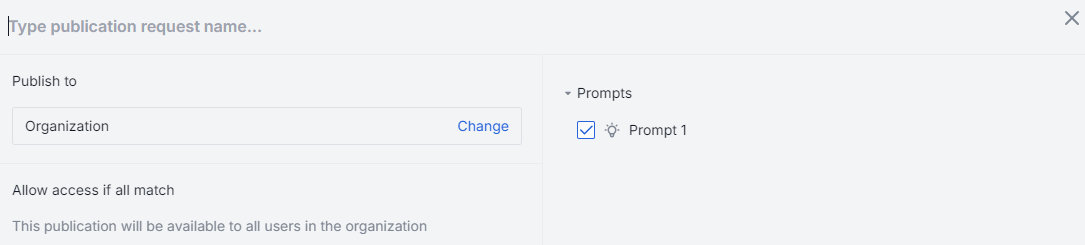
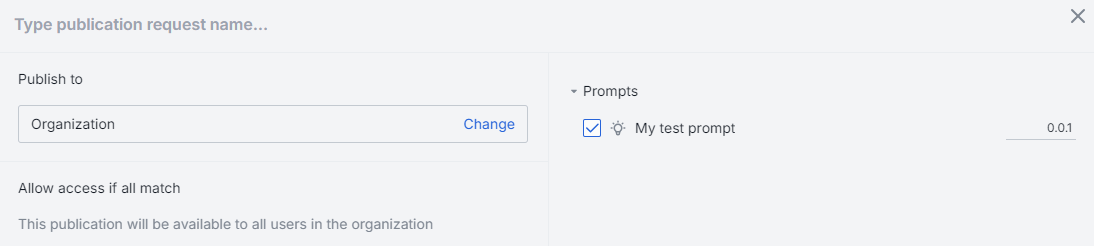
guide updates

diff --git a/docs/user-guide.md b/docs/user-guide.md
@@ -80,7 +80,7 @@ The MAX length of the folder name is limited to 160 symbols. Everything beyond i
 
 ### Search and Filter
 
-The **Search** box can be utilized to find conversations and folders by their names. If you have any share d conversations, you can apply **Shared by me** filter to sort them out.
+The **Search** box can be utilized to find conversations and folders by their names. If you have any shared conversations, you can apply **Shared by me** filter to sort them out.
 
 ![](./img/search-conv.png)
 
@@ -322,13 +322,31 @@ You can publish conversations to make them available for the target audience.
    * In **Publish to**, you can select the target destination. You can also create a dedicated folder to publish your conversation into.
    * In **Allow access..**, specify access rules and the target audience. For example Role-Equals-Admin. **Note**: the available roles are configured for each organization individually. Contact your support to find out the rules are applicable in your organization.
    * In **Conversations**, you can choose what conversations you want to publish (if you have selected a folder with several conversations). If conversations include attachments, you can also select them in the **Files** section.
-      - You can also add a **version** of your publication next to the conversation check box.
+   * Assign a version to your request. 
    * Click **Send request** to send your publish request to the administrator.
    ![](./img/publish-request.png)
 
 3. When your request is approved, the published conversation or a folder with conversation(s) will become available in the Organization tab.
 
 ![](./img/organization-section.png)
+
+**Versioning**
+
+When you make a publication request, it is required to assign it a unique version number. A version must follow format: `0.0.0`. With each request you must provide a new version - the system will not accept two identical versions. 
+
+Versioning helps you create specific publications for different groups of people, run experiments, and keep track of your conversations easily.
+
+You can add a **version** of your publication request next to the conversation check box:
+
+![](./img/versioning1.png)
+
+If you try to publish this conversation again, you will be able to view the last version or a drop-down with versions:
+
+![](./img/versioning2.png)
+
+When you open a published conversation, you can view and switch between its versions in the [conversation settings](#conversation-settings): 
+
+![](./img/versioning3.png)
 
 ### Unpublish
 
@@ -384,37 +402,49 @@ This is the list of all the supported actions. Note, that actions may vary for t
 
 ![](./img/prompt_actions.png)
 
+### Arrange
+
+You can arrange your prompts in folders. To create a new folder, click a folder icon in the bottom menu:
+
+![](./img/create-new-folder-prompt.png)
+
+You can also create a new folder or move a prompt to the existing folder from the **Move to** context menu of the selected prompt: 
+
+![](./img/move_prompt.png)
+
+New folders will automatically be arranged in the **Pinned prompts** tab in the Prompts panel.
+
+![](./img/pinned-prompts.png)
+
+**Hierarchy**
+
+You can create a hierarchy of folders with three nesting levels. Just create a folder and drag-n-drop it in the other folder to create a nesting level. The same way, you can either drag-n-drop a prompt into a folder or use **Move to** in the context menu of a prompt to move it to a **parent** folder.
+
+> **Note**: empty folders are deleted after refreshing the page.
+
+**Naming Conventions**
+
+The following symbols in the folders names are prohibited: tab, `"`, `:`, `;`, `/`, `\`, `,`, `=`, `{`, `}`, `%`, `&` and will be excluded. Note that you can use the `.` symbol at the start or inside a name, but the dot at the end will be automatically removed.
+
+The MAX length of the folder name is limited to 160 symbols. Everything beyond is cut off. 
+
 ### Search and Filter
+
+The **Search** box can be utilized to find prompts and folders by their names. If you have any shared prompts, you can apply **Shared by me** filter to sort them out.
 
 ![](./img/pt_search.png)
 
-The **Search** box can be utilized to find prompts and folders by their names.
-
-You can filter prompts by the "Shared by me" criterion. To do so, click the **Filter** icon and select **Shared by me**.
- 
-### Arrange
-
-You can gather your prompts in folders.
-
-![](./img/move_prompt.png)
- 
-You can create a hierarchy of folders with three nesting levels. Just create a folder and drag-n-drop it in the other folder to create a nesting level. 
-The same way, you can either drag-n-drop a prompt into a folder or use **Move to** in the context menu of a prompt to place it in the **parent** folder.  
-
-> After refreshing the page or logging in again, any empty folders will be deleted.
-
-The following symbols in the folders names are prohibited: tab, `"`, `:`, `;`, `/`, `\`, `,`, `=`, `{`, `}`, `%`, `&`. Note that you can use the `.` symbol at the start or inside a name, but the dot at the end will be automatically removed. The MAX length of the folder name is limited to 160 symbols. Everything beyond is cut off. 
 
 ### Create
 
 ![](./img/create-pt.png)
 
-To create a new prompt:
+**To create a new prompt**:
 
 1.	On the right panel, select **New prompt**.
 2.	Fill in the **Name**, **Description**, and **Prompt** boxes. The following symbols in the prompt names are prohibited: tab, ":", ";", "/", "\", ",", "=", "{", "}", "%", "&". Note that you can use the "." symbol at the start or inside a name, but the dot at the end will be automatically removed. The MAX length of the prompt name is limited to 160 symbols. Everything beyond is cut off.
 
-  > Please note that both the **Name** and **Description** fields are mandatory to fill in order to create a prompt!
+      > Please note that both the **Name** and **Description** fields are mandatory to fill in order to create a prompt!
 
 3.	Click **Save**.
 
@@ -456,6 +486,8 @@ You can delete a single prompt, selected prompts or all prompts.
 
 * To delete a single prompt, in the menu of each prompt, select **Delete** and confirm your action.
 * To delete all prompts, at the bottom of the right panel, click the **Delete all prompts** icon.
+
+![](./img/delete-prompt.png)
 
 ### Select to Delete
 
@@ -501,13 +533,13 @@ To share a prompt or a folder, click **Share** in the contextual menu and copy t
 
 ### Unshare
 
-To revoke access from all users, click **Unshare** in the contextual menu and then confirm actions in the dialog window.
+To revoke access from all users you have shared with, click **Unshare** in the contextual menu and then confirm actions in the dialog window.
 
 ![](./img/pt_unshare.png)
 
 ### Duplicate
 
-You can duplicate a prompt, for example, to be able to change a prompt that was shared with you. To duplicate a prompt, click **Duplicate** in the contextual menu.
+You can duplicate a prompt to be able to change a prompt that was shared with you. To duplicate a prompt, click **Duplicate** in the contextual menu.
 
 > You can duplicate only prompt shared with you.
 
@@ -515,9 +547,19 @@ You can duplicate a prompt, for example, to be able to change a prompt that was 
 
 ### Export Import
 
-You can export and import prompts. 
+You can export 
 
-> Note, that when importing a duplicate of an existing prompt, you will be prompted to select one of the proceeding options: replace, ignore or add a prefix to the imported prompt.
+![](./img/export-prompt.png)
+
+and import prompts as Json files
+
+![](./img/import-prompt.png)
+
+When importing a **duplicate** of an existing prompt, you will be asked to select one of the proceeding options: 
+
+* Replace - replace the original prompt 
+* Ignore - do nothing
+* Postfix - add a postfix to the imported prompt. For example: *my-prompt 1* , where 1 is added postfix to the name of the duplicated imported prompt.
 
 ![](./img/import-export-prompt.png)
 
@@ -525,7 +567,7 @@ You can export and import prompts.
 
 You can publish prompts to make them available for the target audience. 
 
-**Note**: to publish a shared prompt, [duplicate](#duplicate-1) it and then publish. 
+> **Note**: to publish a shared prompt, [duplicate](#duplicate-1) it and then publish. 
 
 **To publish a prompt**: 
 
@@ -538,6 +580,7 @@ You can publish prompts to make them available for the target audience.
    * In **Publish to**, select the target destination or a folder to publish your prompt into.
    * In **Allow access...**, specify access rules and the target audience. For example Role-Equals-Admin. **Note**: the available roles are defined in each organization individually. Contact your support to find out the rules are applicable in your organization.
    * In **Prompts**, if you have selected a folder, you can choose what prompts you want to publish.
+   * Assign a **version** to your publication request.
    * Click **Send request** to send your publication request to the administrator.
 
 ![](./img/publish-prompt-request.png)
@@ -545,6 +588,21 @@ You can publish prompts to make them available for the target audience.
 3. When your request is approved, the published prompt or a folder with prompt(s) will become available in the Organization tab.
 
 ![](./img/organization-section-prompts.png)
+
+**Versioning**
+
+When you make a publication request, it is required to assign it a unique version number. A version must follow format: `0.0.0`. With each request you must provide a new version - the system will not accept two identical versions. 
+
+Versioning helps you create specific publications for different groups of people, run experiments, and keep track of your prompts easily.
+
+You can add a **version** of your publication request next to the prompt check box:
+
+![](./img/prompt-versioning1.png)
+
+If you try to publish this prompt again, you will be able to view the last version or a drop-down with versions:
+
+![](./img/versioning2.png)
+
 
 ### Unpublish
 
@@ -780,6 +838,14 @@ All attached and uploaded files are available in the attachments manager. To man
 
 ![](./img/attachments3.png)
 
+There can be a few tabs in the Attachments Manager: 
+
+* Organization - published files
+* Shared with me - files shared with you
+* All files - the rest of your files
+
+![](./img/att-manager.png)
+
 **To Create a Folder:**
 
 You can create folders and then upload files into them. **Note**, the only way to add a file into a folder is to upload it - you cannot move files between folders.
@@ -822,10 +888,12 @@ In the file menu, you can choose to unshare it:
 
 **To Download Attachments**:
 
-> Click a folder to expand it.
+Click a folder to expand it.
 
 1. In the Manage attachments dialog, point to a file and select it. You can select several files.
 2. Click the **Download** icon below the files tree.
+
+![](./img/file-download.png)
 
 **To Delete Attachments**:
 
@@ -833,6 +901,8 @@ In the file menu, you can choose to unshare it:
 
 1. In the Manage attachments dialog, point to a file and select it. You can select several files.
 2. Click the **Delete** icon below the files tree.
+
+![](./img/file-delete.png)
 
 ## Publications
 
@@ -854,7 +924,7 @@ This is the high level overview of the publication workflow:
 
 1. Chat user sends a publication request for the selected resource(s) (conversation, prompt).
 2. Admin receives the publication request, reviews it and either approves or declines.
-3. In case the publication request has been approved, the published resource becomes available for the target audience in the Organization section in the chat application.
+3. In case the publication request has been approved, the published resource becomes available for the target audience in the Organization section in the chat application. If the published resource includes attachments, they will be available in the Organization section in the [Attachments Manager](#attachments-manager).
 4. Resource owner can unpublish the published resource.
 
 > Refer to [Conversations](#publish) and [Prompts](#publish-1) to view a step-by-step instructions.

diff --git a/docs/tutorials/enable-publications.md b/docs/tutorials/enable-publications.md
@@ -1,5 +1,7 @@
 # Publications
 
+You can publish/unpublish conversations and prompts, or even a collection of those, making them accessible within your organization. Additionally, you can manage access to the published resources, ensuring that the right information is accessible to the right individuals or teams.
+
 ## DIAL API
 
 Refer to [AI DIAL API](https://epam-rail.com/dial_api#tag/Publications) to view publications endpoints.
